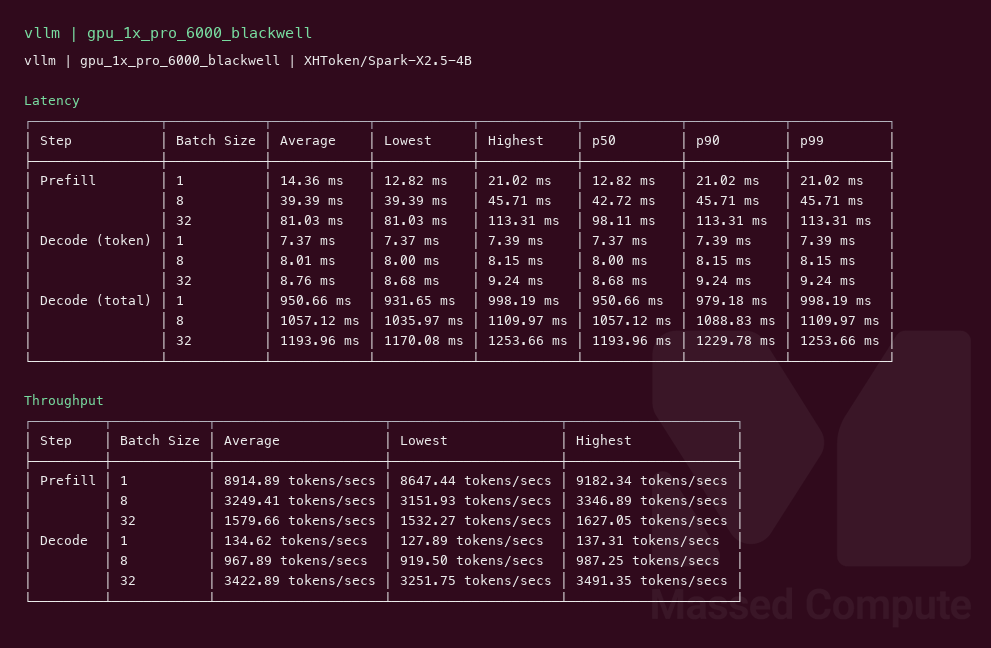
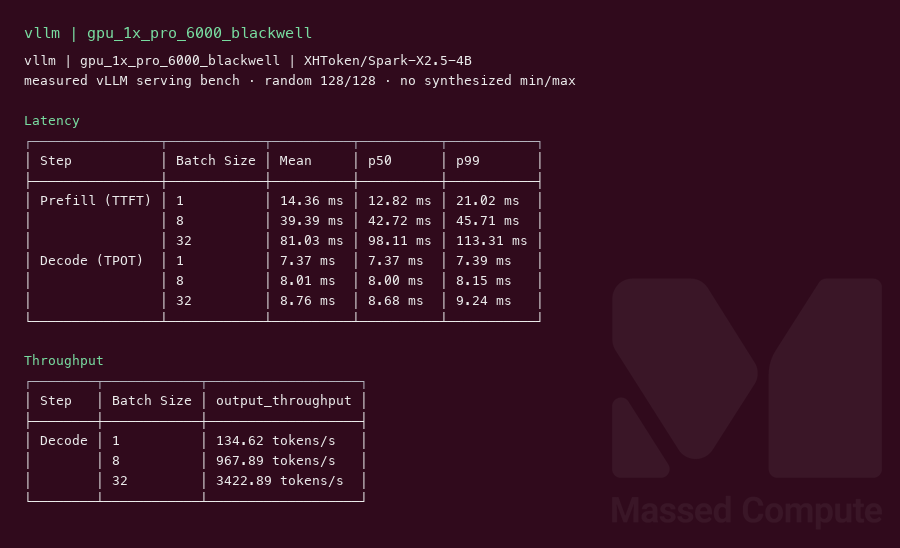
fix: Spark showcases from measured JSON and quote docker env.

Changed region(s): [[0.0, 0.031, 0.9022, 0.9307]]

diff --git a/spark-x2.5-4b/spark-x2.5-4b.md b/spark-x2.5-4b/spark-x2.5-4b.md
@@ -39,13 +39,16 @@ vllm — 3422.9 output tok/s @ c32:
 
 ## Conclusion
 
-Smallest fit is **`gpu_1x_a6000`** at **2825** tok/s per $ (**1610** tok/s at $0.57/hr). L40S is **20%** faster and **70%** more per hour, so A6000 still wins cost. Blackwell is the throughput card: **3423** tok/s, **2.1×** A6000, **1.8×** L40S, worst tok/s per $ of the three. Buy A6000 unless the job is latency-bound (Blackwell TTFT 98 ms vs A6000 180 ms).
+Smallest fit is **`gpu_1x_a6000`** at **2825** tok/s per $ (**1610** tok/s at $0.57/hr). L40S is **20%** faster and **70%** more per hour, so A6000 still wins cost. Blackwell is the throughput card: **3423** tok/s, **2.1×** A6000, **1.8×** L40S, worst tok/s per $ of the three.
+
+Buy A6000 for packed serving and for a chat box billed by the hour. Use Blackwell when 32-way TTFT matters (c32 p99 113 ms vs A6000 342 ms) or a single-user tail (c1 p99 21 ms vs A6000 120 ms). Do not treat the c32 medians (98 ms vs 180 ms) as interactive latency.
 
 ## Notes
 - 4.1B BF16 (~8.3 GB weights) fits 48 GB; A6000 at $0.57 is the least expensive live SKU that ran it. Multi-GPU is not warranted.
 - Same checkpoint on all three rows. Did not bench the advertised 1M context window.
 - Serving used `vllm-spark2-5-plugin` inside `vllm/vllm-openai:latest`. First stock-latest start failed with `Spark2_5ForCausalLM` unsupported.
 - nvidia-smi at serve-ready: A6000 44420/49140 MiB, L40S 41815/46068 MiB, Blackwell 89971/97887 MiB.
+- Showcase tables are measured vLLM serving-bench fields only (TTFT mean/p50/p99, TPOT mean/p50/p99, output_throughput). No synthesized min/max or p90.
 - SGLang not captured this wave.
 - Numbers from live Massed runs 2026-09-08; bench VMs terminated after capture.
 - Raw: `results/raw/spark-x2.5-4b/`.
